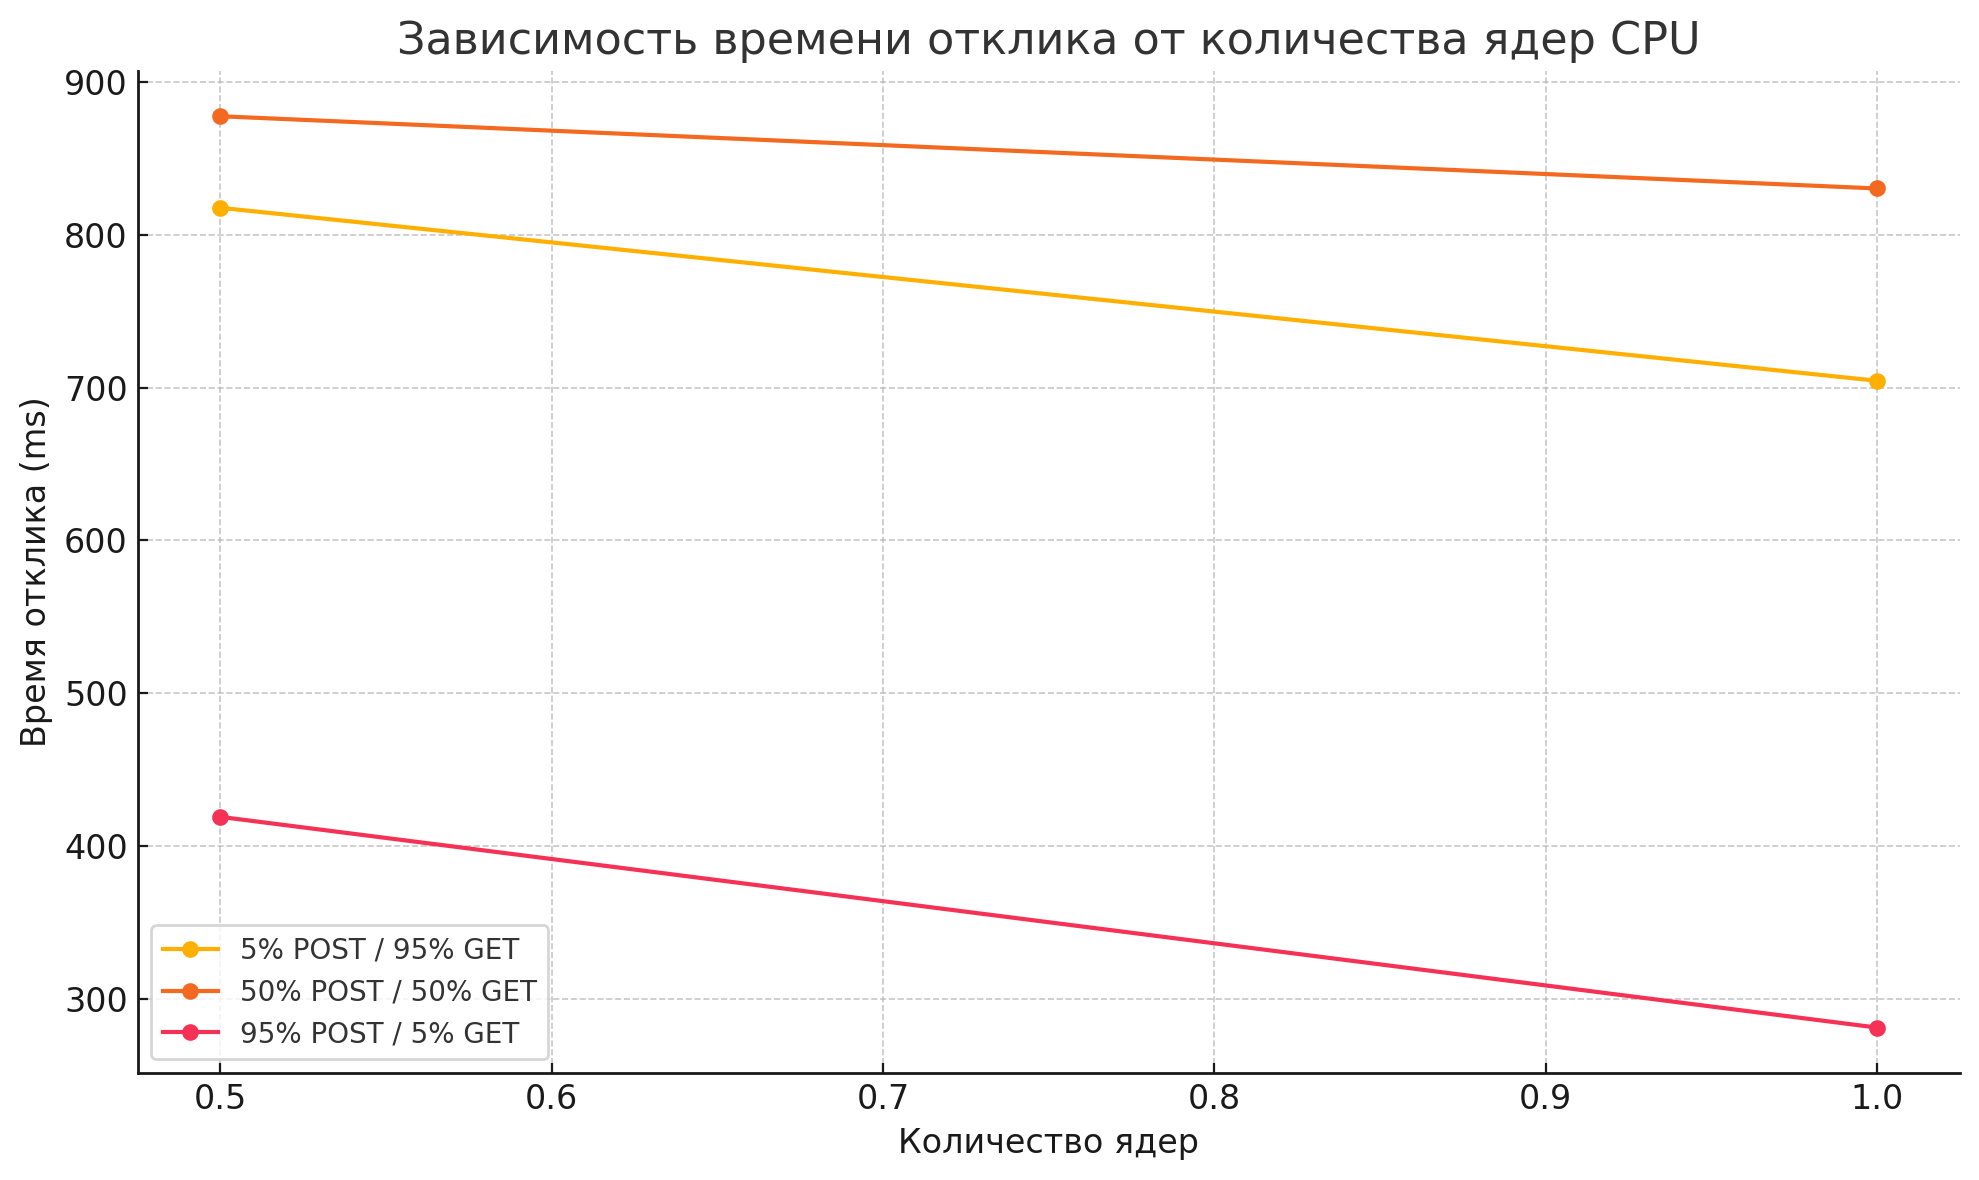
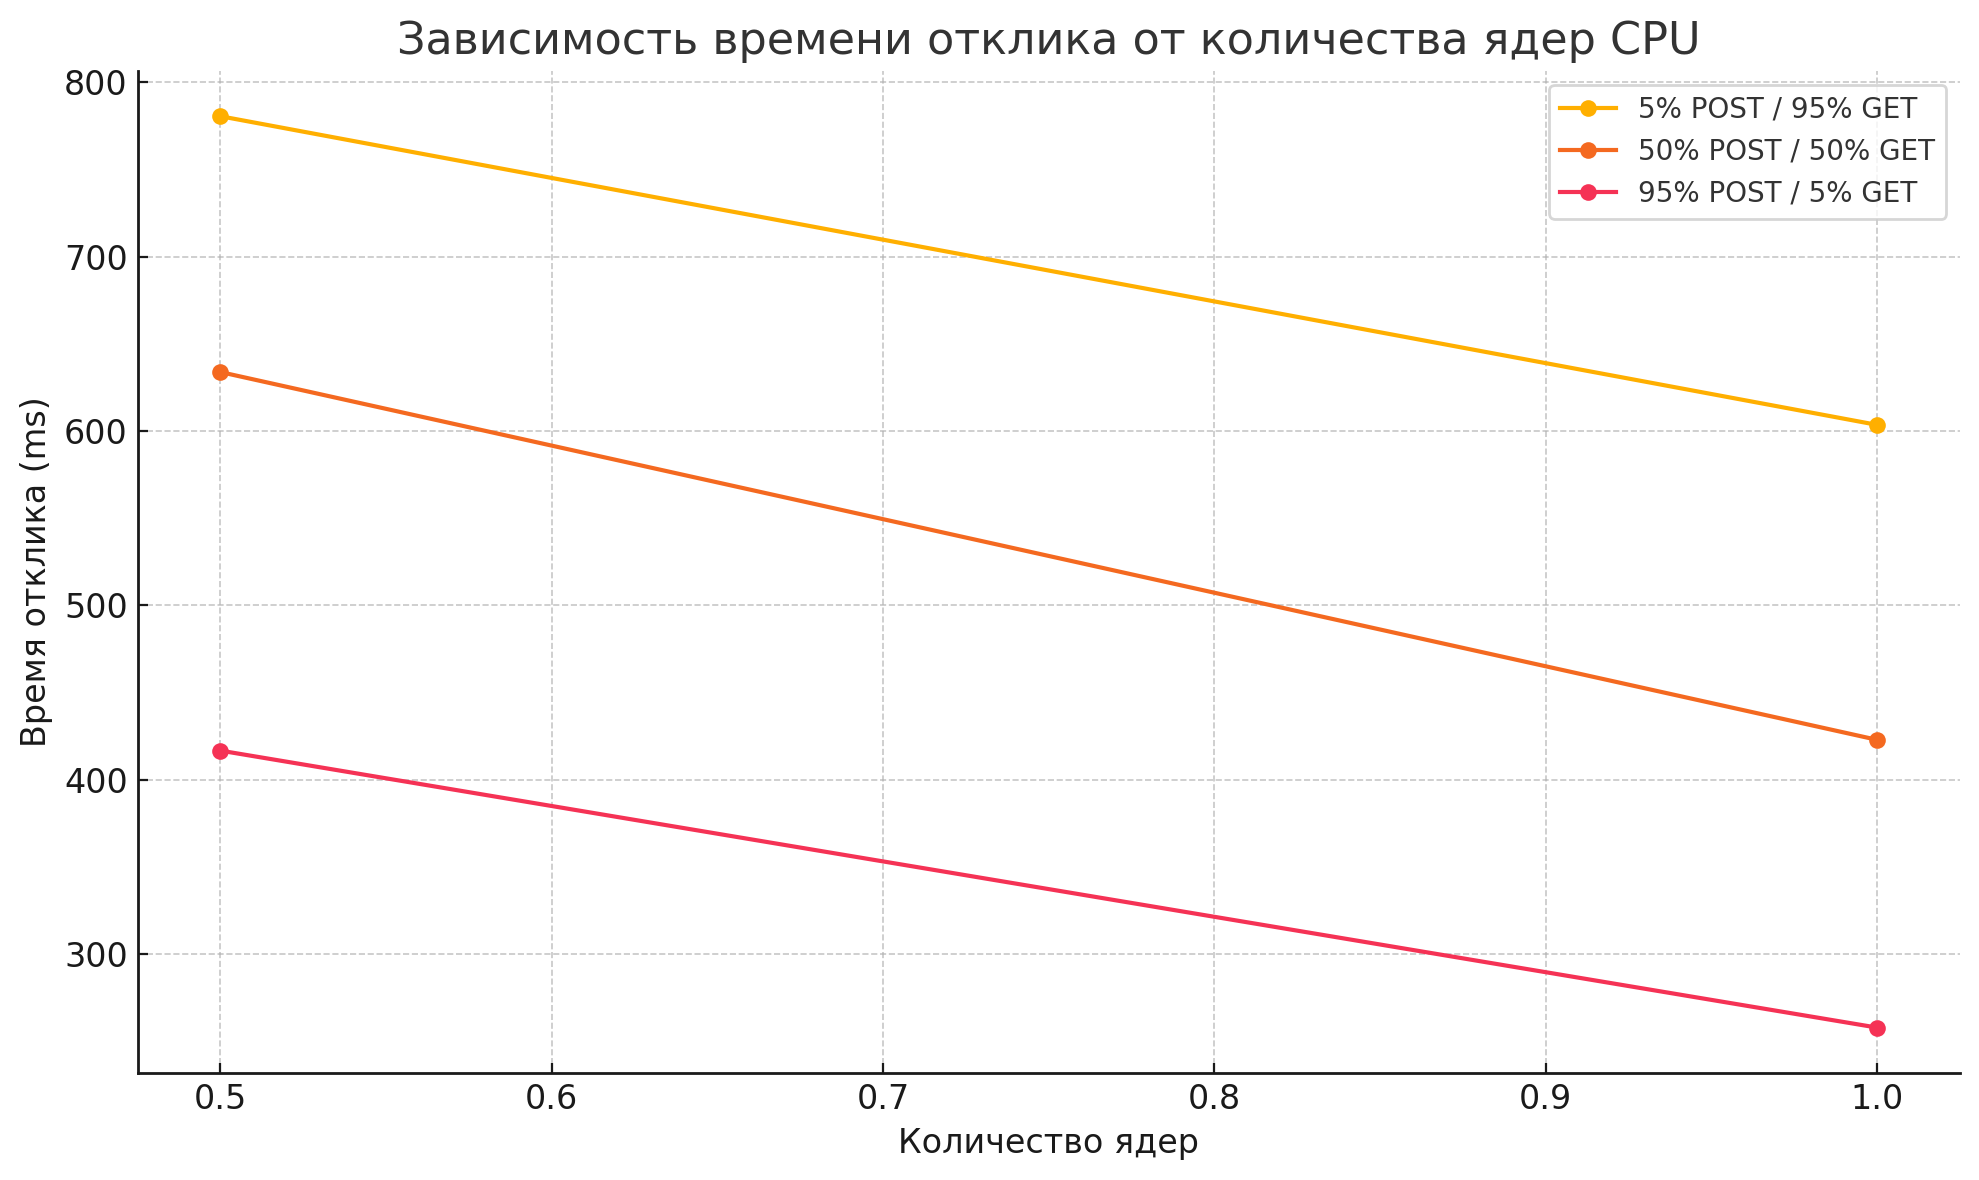
LAB

diff --git a/k6/availability_test.js b/k6/availability_test.js
@@ -99,7 +99,7 @@ export function writeScenario() {
     const isAvailable = availableDoctors.some(d => d.id === doctor.id);
 
     if (!isAvailable) {
-        console.warn(`Доктор ${doctor.id} недоступен на ${appointmentDate}`);
+        //console.warn(`Доктор ${doctor.id} недоступен на ${appointmentDate}`);
         return;
     }
 
